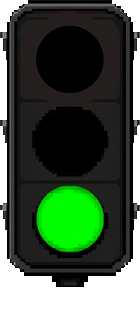
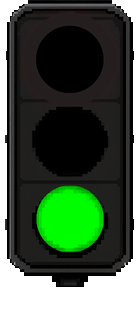
Trim the six tabs on the lamp housing
The source sprites have three small tabs down each side, each sticking out about
seven pixels. At display size they read as dirt on the silhouette.

The first attempt compared each row against a rolling median, but the tabs are
twenty-three rows tall, so within a +/-20 window they were half the sample and
dragged the median out with them. Using the global median of the left and right
edges fixes it: rounded corners fall inside the body bounds and survive, the tabs
fall outside and go.

diff --git a/tools/trim_tabs.py b/tools/trim_tabs.py
@@ -1,0 +1,81 @@
+#!/usr/bin/env python3
+"""去掉灯罩左右两侧的小凸起。
+
+原图（ComfyUI 生成的基准图）灯罩侧面有 6 个小凸起（每侧 3 个，伸出约 7px）。
+这些凸起在整张图缩放后变成一圈毛边，视觉上很脏。
+
+做法：
+  1. 逐行求出不透明像素的左右边界
+  2. 用 ±20 行的【局部中位数】当作「主体轮廓」
+  3. 某行的边界比主体轮廓突出超过 2px ⇒ 把多出来的像素抹成透明
+
+窗口取 ±20 行是因为凸起只有 6~10 行高，中位数不会被它带偏；
+主体本身的圆角变化是渐进的，中位数能跟得上，不会被误裁。
+"""
+
+from __future__ import annotations
+
+import sys
+
+import numpy as np
+from PIL import Image
+
+THRESHOLD = 128     # alpha 大于它算不透明
+WINDOW = 20         # 局部中位数的半窗口（行）
+TOLERANCE = 2       # 允许的正常波动（px）
+
+
+def trim_tabs(im: Image.Image) -> tuple[Image.Image, int]:
+    """按【全局】主体边界裁剪，抹掉左右凸起。
+
+    原实现用 ±20 行的局部中位数，但凸起本身有 23 行高，窗口里一半都是凸起，
+    中位数被带偏 ⇒ 裁不干净。改成：
+      · 取所有行的左右边界【全局中位数】当作主体轮廓
+      · 圆角行的边界在主体轮廓内 ⇒ 不受影响
+      · 凸起行的边界超出 ⇒ 被裁掉
+    """
+    a = np.array(im.convert("RGBA"))
+    alpha = a[:, :, 3]
+    h, w = alpha.shape
+
+    left = np.full(h, -1, dtype=int)
+    right = np.full(h, -1, dtype=int)
+    for y in range(h):
+        nz = np.nonzero(alpha[y] > THRESHOLD)[0]
+        if len(nz):
+            left[y], right[y] = int(nz[0]), int(nz[-1])
+    valid = left >= 0
+
+    body_left = int(np.median(left[valid]))
+    body_right = int(np.median(right[valid]))
+
+    removed = 0
+    for y in range(h):
+        if not valid[y]:
+            continue
+        if left[y] < body_left - TOLERANCE:
+            a[y, : body_left] = 0
+            removed += body_left - left[y]
+        if right[y] > body_right + TOLERANCE:
+            a[y, body_right + 1:] = 0
+            removed += right[y] - body_right
+
+    return Image.fromarray(a), removed
+
+
+def main() -> None:
+    names = sys.argv[1:] or ["idle", "working", "done", "attention", "offline"]
+    for n in names:
+        path = f"assets/states/{n}.png"
+        try:
+            im = Image.open(path)
+        except OSError:
+            print(f"  跳过 {path}（不存在）")
+            continue
+        out, removed = trim_tabs(im)
+        out.save(path)
+        print(f"  {n:<10} 裁掉 {removed} 个像素 → {path}")
+
+
+if __name__ == "__main__":
+    main()
